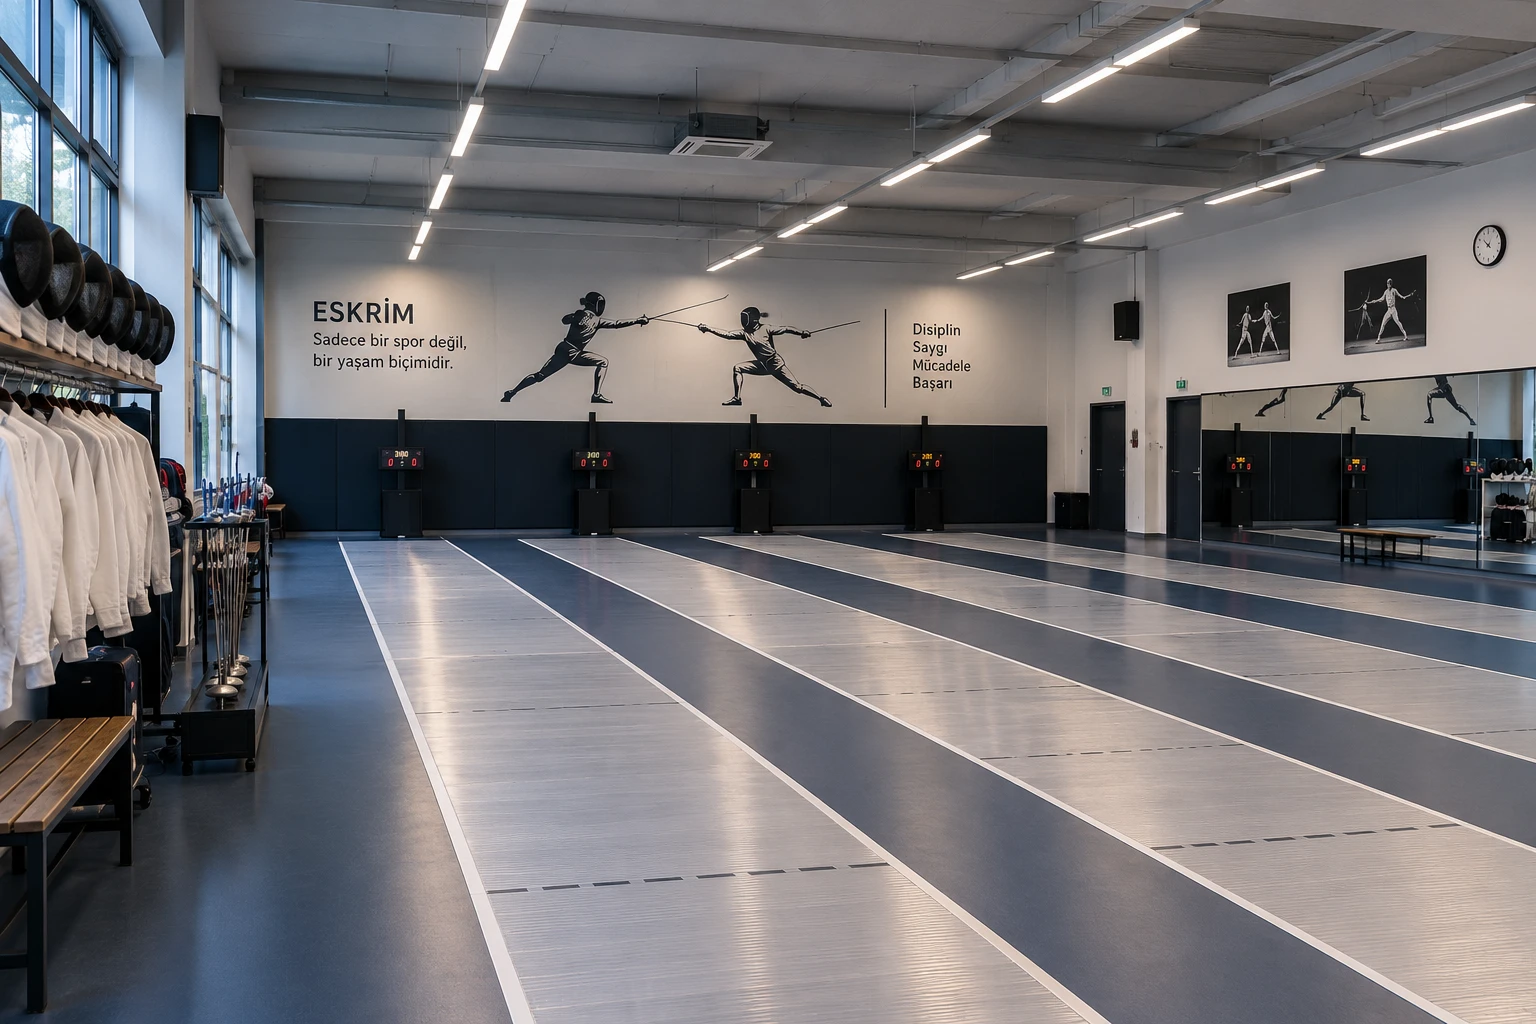
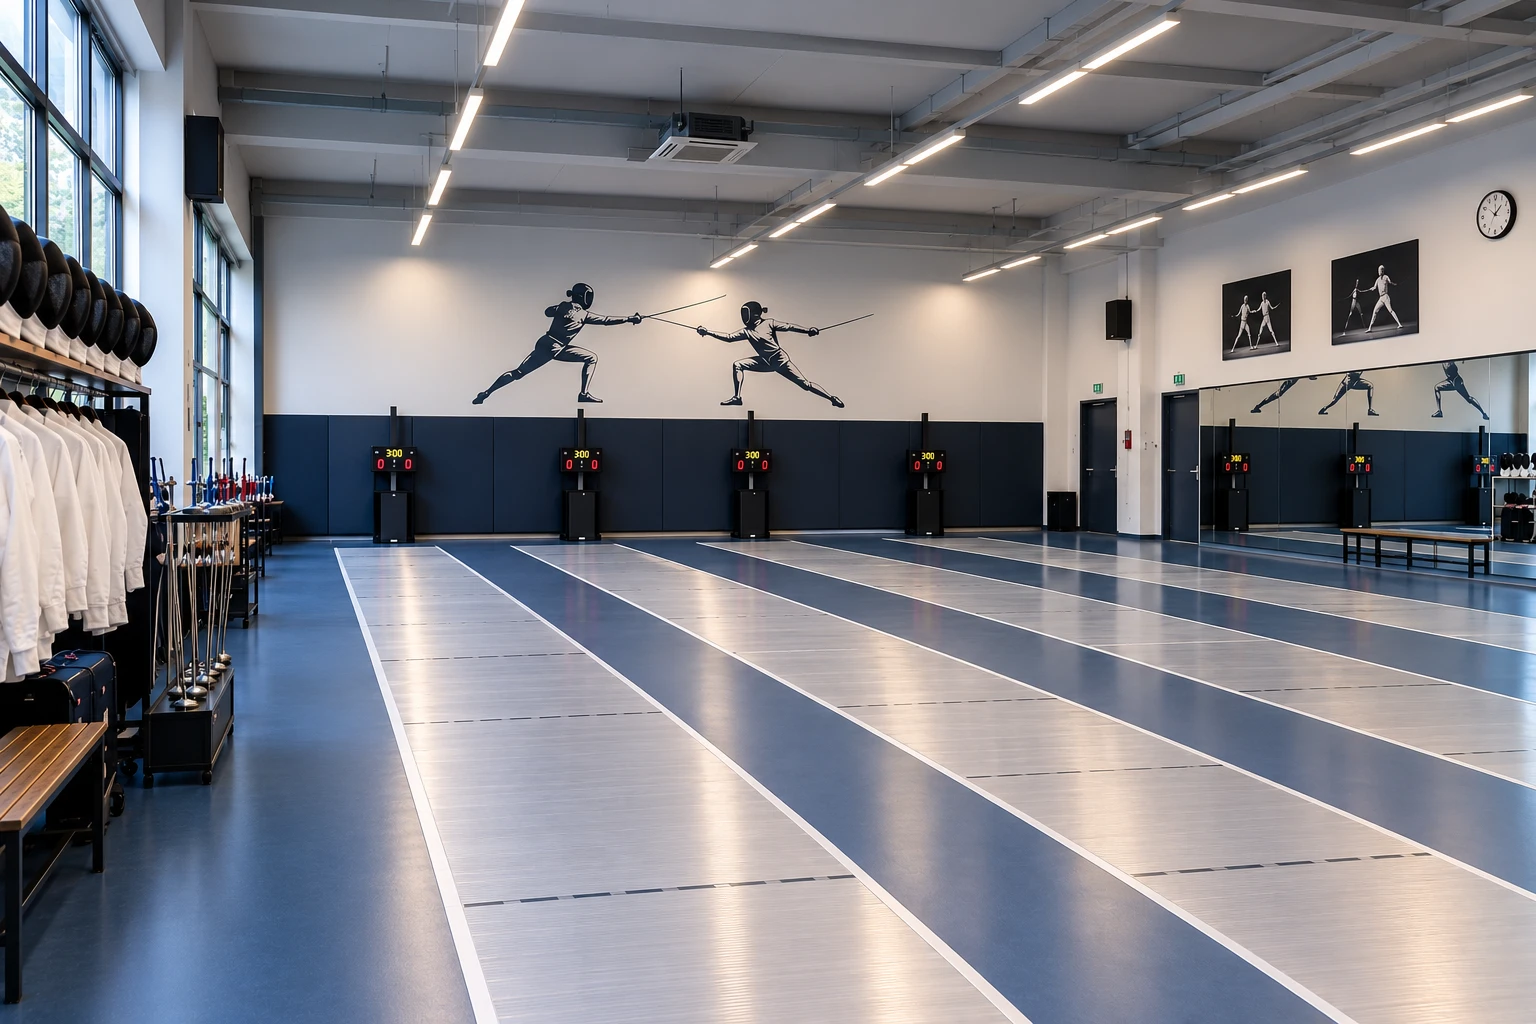
feat(ux): antrenman — salon görseli tüm sayfa arka planı (CM tarzı) + ince hero
- Eskrim salonu sabit tam-sayfa arka plan + koyu katman; içerik üstte yüzer
- İnce/kompakt hero şeridi (Antrenman·gün + Kondisyon/Form ince barlar)
- Yazısız salon görseli (16.webp) ile değiştirildi

diff --git a/src/app/kariyer/antrenman/page.tsx b/src/app/kariyer/antrenman/page.tsx
@@ -5,7 +5,7 @@ import { t } from "@/i18n";
 import { getLocale } from "@/i18n/server";
 import { getCareer } from "@/server/careerService";
 import { Icon } from "@/app/ui/Icon";
-import { CATEGORY_ICON, SkillsByCategory, conditionState, formState } from "../parts";
+import { CATEGORY_ICON, SkillsByCategory } from "../parts";
 import { InfoNote } from "../InfoNote";
 import { CollapsibleSection } from "../CollapsibleSection";
 import { TrainingPlanForm } from "./TrainingPlanForm";
@@ -27,13 +27,13 @@ function EnergyBar({ label, value, color }: { label: string; value: number; colo
   return (
     <div>
       <div className="flex items-baseline justify-between">
-        <span className="text-[12px] font-medium uppercase tracking-wide text-console-steel">{label}</span>
-        <span className="num text-[22px] leading-none text-console-ink">%{v.toFixed(0)}</span>
+        <span className="text-[11px] font-medium uppercase tracking-wide text-console-steel">{label}</span>
+        <span className="num text-[16px] leading-none text-console-ink">%{v.toFixed(0)}</span>
       </div>
-      <div className="mt-1.5 h-3 overflow-hidden rounded-full bg-console-line">
+      <div className="mt-1 h-2 overflow-hidden rounded-full bg-console-line">
         <div
           className="h-full rounded-full transition-[width] duration-500"
-          style={{ width: `${v}%`, background: `linear-gradient(90deg, ${color}99, ${color})`, boxShadow: `0 0 10px ${color}66` }}
+          style={{ width: `${v}%`, background: `linear-gradient(90deg, ${color}99, ${color})`, boxShadow: `0 0 8px ${color}55` }}
         />
       </div>
     </div>
@@ -47,32 +47,26 @@ export default async function AntrenmanPage() {
   const condition = 100 - c.fatigue;
 
   return (
-    <main className="flex flex-col gap-5">
-      {/* ——— HERO: gerçek eskrim salonu görseli (AI üretimi, özgün) + okunabilirlik degradesi ——— */}
-      <section data-scope="console" className="relative overflow-hidden rounded-xl p-5">
-        {/* Arka plan görseli */}
-        <img
-          src="/img/salle-antrenman.webp"
-          alt=""
-          className="pointer-events-none absolute inset-0 h-full w-full object-cover object-center"
-        />
-        {/* Koyu degrade: görsel parlak (beyaz duvar) → yazı/barlar net okunsun diye üstüne katman */}
-        <div className="pointer-events-none absolute inset-0 bg-gradient-to-t from-black/85 via-black/60 to-black/45" />
+    <main className="relative flex flex-col gap-5">
+      {/* ——— TÜM SAYFA ARKA PLANI: eskrim salonu (Champ Manager tarzı), sabit; içerik üstünde ——— */}
+      <div aria-hidden="true" className="fixed inset-0 -z-10">
+        <img src="/img/salle-antrenman.webp" alt="" className="h-full w-full object-cover object-center" />
+        <div className="absolute inset-0 bg-black/72" />
+      </div>
+
+      {/* ——— HERO: Kondisyon/Form — ince/kompakt kutu (sayfa arka planı salonun kendisi) ——— */}
+      <section data-scope="console" className="relative overflow-hidden rounded-xl bg-black/35 px-4 py-3 ring-1 ring-white/10">
         <div className="relative">
-          <span className="kicker text-console-steel">{t(locale, "antrenman.title")}</span>
-          <div className="mt-1.5 flex items-center gap-2 text-console-ink">
-            <Icon name="calendar" size={18} className="text-console-steel" />
-            <span className="font-display text-[20px] font-bold leading-none">{c.dayName}</span>
+          <div className="flex items-center justify-between">
+            <span className="kicker text-console-steel">{t(locale, "antrenman.title")}</span>
+            <span className="flex items-center gap-1.5 text-console-ink">
+              <Icon name="calendar" size={14} className="text-console-steel" />
+              <span className="font-display text-[15px] font-bold leading-none">{c.dayName}</span>
+            </span>
           </div>
-          {/* Kondisyon + Form: büyük enerji barları (antrenmana hazırlık durumu) */}
-          <div className="mt-4 grid grid-cols-2 gap-4">
+          <div className="mt-2.5 grid grid-cols-2 gap-4">
             <EnergyBar label={t(locale, "profil.condition")} value={condition} color="#22c55e" />
             <EnergyBar label={t(locale, "profil.form")} value={c.sharpness} color="#e0b23f" />
-          </div>
-          <div className="mt-2 flex gap-3 text-[11px] text-console-steel">
-            <span>{conditionState(locale, condition)}</span>
-            <span aria-hidden="true">·</span>
-            <span>{formState(locale, c.sharpness)}</span>
           </div>
         </div>
       </section>

diff --git a/CHANGELOG.md b/CHANGELOG.md
@@ -10,8 +10,9 @@ Playtest (oyun sahibi) geri bildirimlerine göre oynanış iyileştirmeleri. Ayr
 `docs/NOTLAR.md`.
 
 ### Değişti (19.10 — görsel: antrenman sayfası yenilendi (gençlere göre, mobil))
-- **Gerçek eskrim salonu hero'su:** AI üretimi (özgün) salon görseli arka planda (`public/img/salle-antrenman.webp`)
-  + okunabilirlik degradesi + büyük **Kondisyon/Form enerji barları** + gün. Sayfa "antrenman salonundayım" hissi veriyor.
+- **Eskrim salonu TÜM SAYFA arka planı (Champ Manager tarzı):** AI üretimi (özgün) salon görseli sabit arka planda
+  (`public/img/salle-antrenman.webp`) + koyu katman; içerik/kartlar üstünde "yüzer". İnce/kompakt hero şeridi
+  (Antrenman·gün + **Kondisyon/Form** enerji barları). Sürükleyici "antrenman salonundayım" hissi.
 - **Antrenman türleri renk-kodlu:** 🔵 Teknik · 🔴 Fiziksel · 🟢 Taktik · 🟣 Mental · ⚪ Dinlenme (renkli ikon rozeti).
 - **Açılır-kapanır bölümler** (`CollapsibleSection` + `InfoNote`): Haftalık Plan açık; "Ne geliştirir" + "Yeteneklerin"
   kapalı (dokun → aç). Mobil + genç kitle: taranabilir akordeon, az metin duvarı. Native `<details>`, JS yok.
